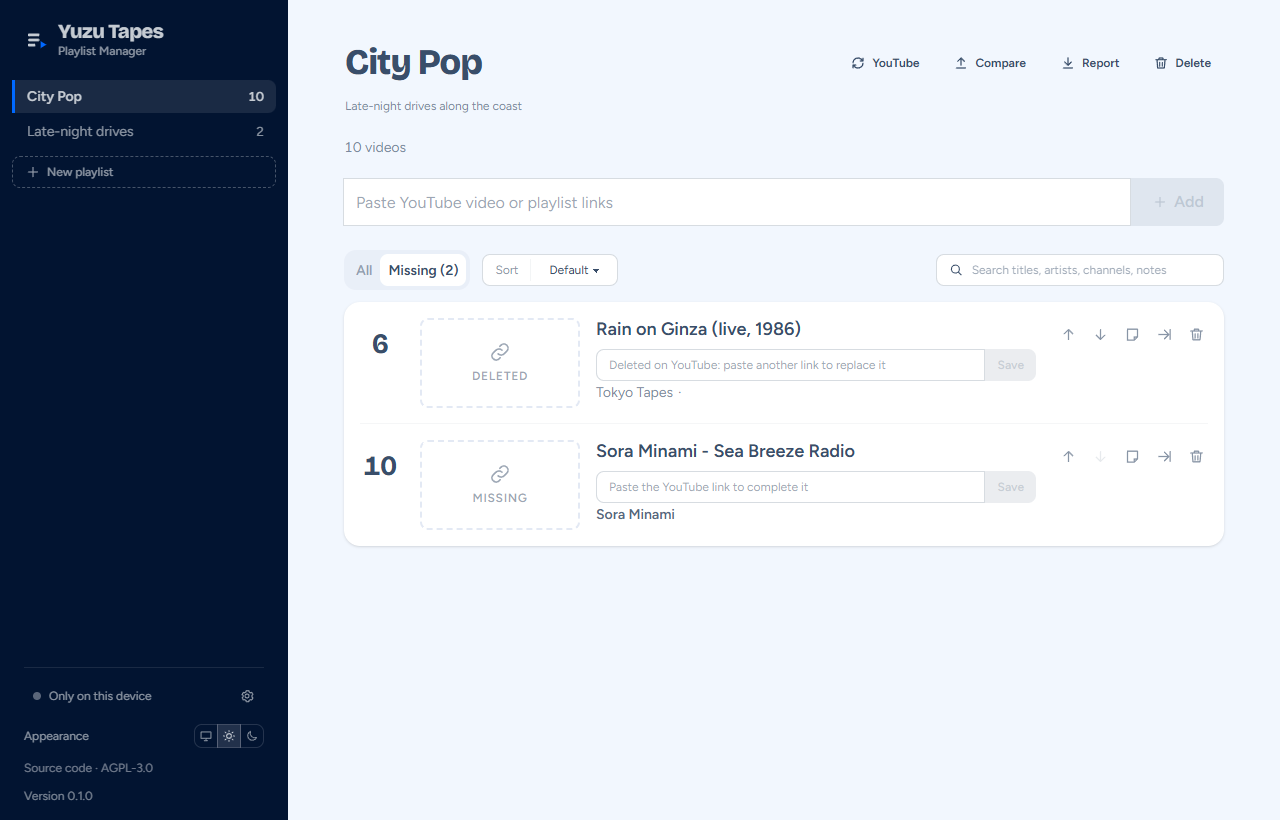
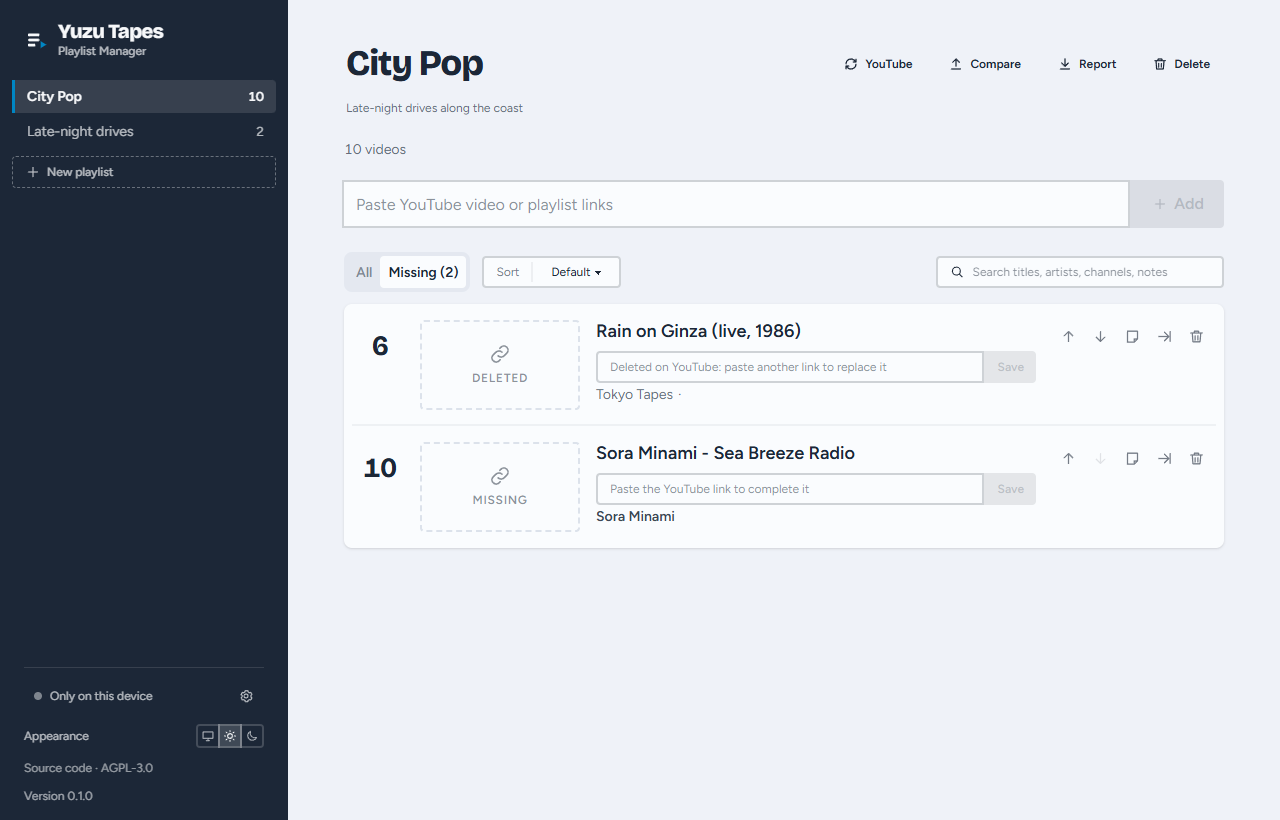
Use sunnycave for both themes, with smaller corners
The dark theme keeps sunnycave's colours with its newer shape: 0.5rem
boxes, 0.25rem fields and round selectors. The light theme is now a
light version of it, with the same hues and shape on light slate. The
page colours, theme-color and screenshots follow.

diff --git a/web-react/src/styles/tailwind.css b/web-react/src/styles/tailwind.css
@@ -4,41 +4,42 @@
     themes: false;
 }
 
-/* Light theme: daisyUI's winter (5.7), cool blue on white. The themes keep the names light and dark,
-   which the saved choice, theme-boot.js and index.html use. */
+/* Light theme: a light version of "sunnycave" (the dark theme): the same hues and shape, on light
+   slate, with darker primary and status colours so text on them stays readable. The themes keep the
+   names light and dark, which the saved choice, theme-boot.js and index.html use. */
 @plugin 'daisyui/theme' {
     name: 'light';
     default: true;
     prefersdark: false;
     color-scheme: light;
-    --color-base-100: oklch(100% 0 0);
-    --color-base-200: oklch(97.466% 0.011 259.822);
-    --color-base-300: oklch(93.268% 0.016 262.751);
-    --color-base-content: oklch(41.886% 0.053 255.824);
-    --color-primary: oklch(56.86% 0.255 257.57);
-    --color-primary-content: oklch(91.372% 0.051 257.57);
-    --color-secondary: oklch(42.551% 0.161 282.339);
-    --color-secondary-content: oklch(88.51% 0.032 282.339);
-    --color-accent: oklch(59.939% 0.191 335.171);
-    --color-accent-content: oklch(11.988% 0.038 335.171);
-    --color-neutral: oklch(19.616% 0.063 257.651);
-    --color-neutral-content: oklch(83.923% 0.012 257.651);
-    --color-info: oklch(88.127% 0.085 214.515);
-    --color-info-content: oklch(17.625% 0.017 214.515);
-    --color-success: oklch(80.494% 0.077 197.823);
-    --color-success-content: oklch(16.098% 0.015 197.823);
-    --color-warning: oklch(89.172% 0.045 71.47);
-    --color-warning-content: oklch(17.834% 0.009 71.47);
-    --color-error: oklch(73.092% 0.11 20.076);
-    --color-error-content: oklch(14.618% 0.022 20.076);
-    --radius-selector: 1rem;
-    --radius-field: 0.5rem;
-    --radius-box: 1rem;
+    --color-base-100: oklch(99% 0.003 256.848);
+    --color-base-200: oklch(96% 0.009 264.665);
+    --color-base-300: oklch(91% 0.014 259.733);
+    --color-base-content: oklch(27% 0.033 256.848);
+    --color-primary: oklch(58% 0.15 232.661);
+    --color-primary-content: oklch(98% 0.012 232.661);
+    --color-secondary: oklch(52% 0.2 276.935);
+    --color-secondary-content: oklch(97% 0.015 276.935);
+    --color-accent: oklch(56% 0.18 254.624);
+    --color-accent-content: oklch(97% 0.014 254.624);
+    --color-neutral: oklch(27% 0.033 256.848);
+    --color-neutral-content: oklch(98% 0.002 247.839);
+    --color-info: oklch(60% 0.12 215.221);
+    --color-info-content: oklch(98% 0.019 200.873);
+    --color-success: oklch(58% 0.17 130.85);
+    --color-success-content: oklch(98% 0.031 120.757);
+    --color-warning: oklch(70% 0.17 70.08);
+    --color-warning-content: oklch(26% 0.06 70.08);
+    --color-error: oklch(57% 0.23 16.439);
+    --color-error-content: oklch(97% 0.015 12.422);
+    --radius-selector: 2rem;
+    --radius-field: 0.25rem;
+    --radius-box: 0.5rem;
     --size-selector: 0.25rem;
     --size-field: 0.25rem;
-    --border: 1px;
+    --border: 2px;
     --depth: 0;
-    --noise: 0;
+    --noise: 1;
 }
 
 /* Dark theme: "sunnycave" from daisyUI's theme generator, slate blue with a sky-blue primary. Used
@@ -68,9 +69,9 @@
     --color-warning-content: oklch(98% 0.022 95.277);
     --color-error: oklch(64% 0.246 16.439);
     --color-error-content: oklch(96% 0.015 12.422);
-    --radius-selector: 0.5rem;
-    --radius-field: 2rem;
-    --radius-box: 2rem;
+    --radius-selector: 2rem;
+    --radius-field: 0.25rem;
+    --radius-box: 0.5rem;
     --size-selector: 0.25rem;
     --size-field: 0.25rem;
     --border: 2px;

diff --git a/web-react/index.html b/web-react/index.html
@@ -6,7 +6,7 @@
     <meta name="color-scheme" content="light dark" />
     <style>
       html {
-        background-color: #f2f7fe;
+        background-color: #eff2f8;
       }
       html[data-theme='dark'] {
         color-scheme: dark;
@@ -14,7 +14,7 @@
       }
       html[data-theme='light'] {
         color-scheme: light;
-        background-color: #f2f7fe;
+        background-color: #eff2f8;
       }
       @media (prefers-color-scheme: dark) {
         html:not([data-theme]) {
@@ -39,7 +39,7 @@
       content="Your own playlists of music and videos, in order, offline-first, synced across devices."
     />
     <meta name="application-name" content="Yuzu Tapes Playlist Manager" />
-    <meta name="theme-color" content="#021431" />
+    <meta name="theme-color" content="#1c2737" />
     <link rel="icon" href="/favicon.svg" type="image/svg+xml" />
     <link rel="preconnect" href="https://fonts.googleapis.com" />
     <link rel="preconnect" href="https://fonts.gstatic.com" crossorigin />

diff --git a/README.md b/README.md
@@ -143,7 +143,7 @@ The API follows the same idea with one project per layer: **Api** (HTTP) → **A
 
 ### Styles
 
-Tailwind v4 and daisyUI are loaded from plain CSS (`styles/tailwind.css`), because Tailwind v4 reads its own directives and isn't designed to run through Sass. Components use daisyUI classes first; what they need beyond that lives in a `*.module.scss` next to the component, which can `@use` the shared `styles/_tokens.scss`. The app has two themes, `light` and `dark`, with the colours of daisyUI's **winter** and the theme generator's **sunnycave**; the switch at the bottom of the sidebar follows the system or pins one, and `theme-boot.js` applies it before the first paint.
+Tailwind v4 and daisyUI are loaded from plain CSS (`styles/tailwind.css`), because Tailwind v4 reads its own directives and isn't designed to run through Sass. Components use daisyUI classes first; what they need beyond that lives in a `*.module.scss` next to the component, which can `@use` the shared `styles/_tokens.scss`. The app has two themes, `light` and `dark`, based on **sunnycave** from daisyUI's theme generator (a light version of it for light); the switch at the bottom of the sidebar follows the system or pins one, and `theme-boot.js` applies it before the first paint.
 
 ### How sync works
 
